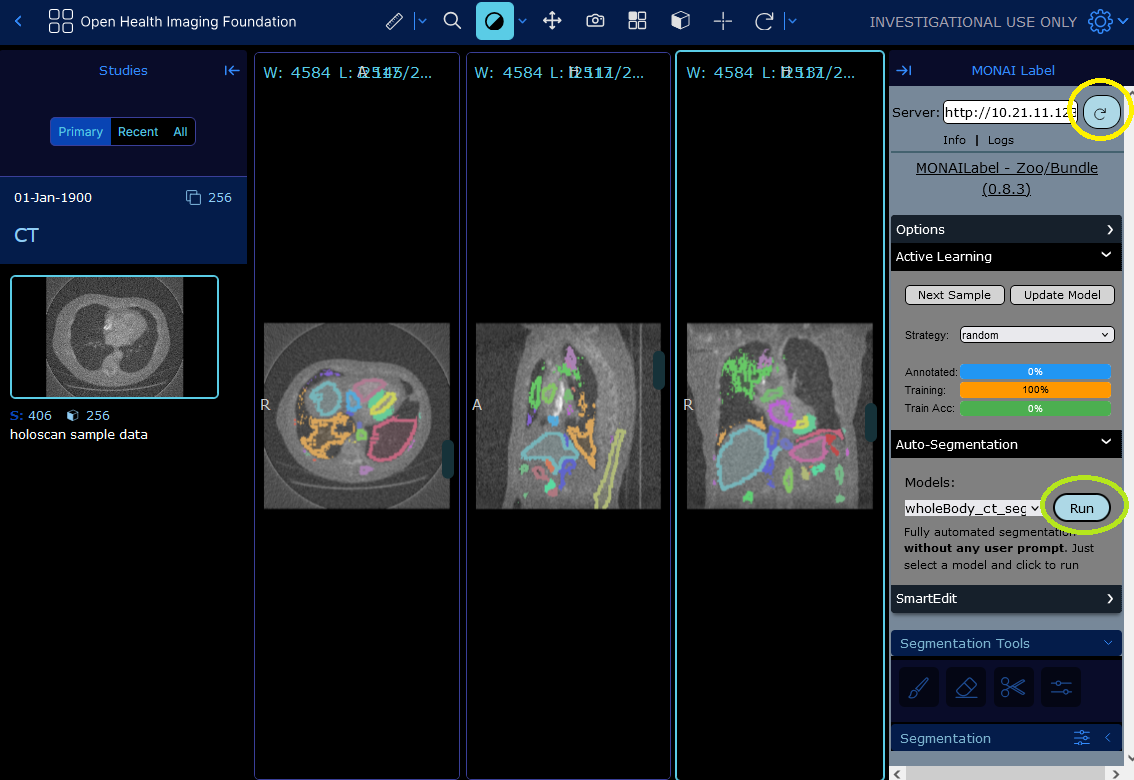
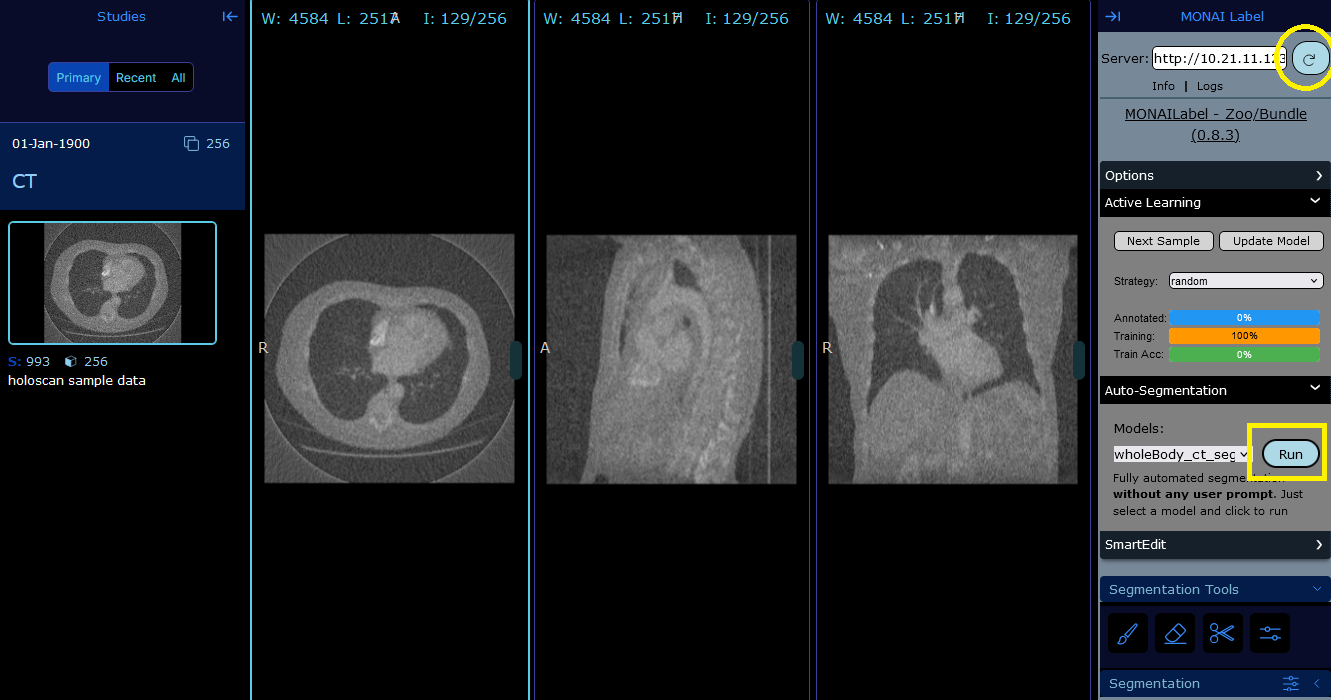
Add segmentation results figures for original and denoised volumes.

diff --git a/applications/cbct_recon/vis/README.md b/applications/cbct_recon/vis/README.md
@@ -46,7 +46,9 @@ for authentication are both `orthanc`, and can be changed through
 modifying the `RegisteredUsers` field in the [Orthanc config
 file](orthanc/orthanc_config.json).
 
-<img align="center" src="./figs/orthanc-landing.png" width="800" alt="Orthanc landing"/>
+<p align="center">
+<img src="./figs/orthanc-landing.png" width="800" alt="Orthanc landing"/>
+</p>
 
 #### Access the OHIF viewer
 
@@ -56,15 +58,19 @@ worklist (see the first figure below). If the recon app has
 previously sent volumes to Orthanc, you will see these volumes appear
 here automatically.
 
-<img align="center" src="./figs/ohif-landing.png" width="800" alt="OHIF landing"/>
+<p align="center">
+<img src="./figs/ohif-landing.png" width="800" alt="OHIF landing"/>
+</p>
 
 You can open a patient data and visualize the reconstructed volumes
 for further analysis. The two figures below show the viewer panel. The
 left figure displays the original reconstructed volume and the right
 figure displays the denoised volume.
 
-<img align="center" src="./figs/ohif-viewer-recon-original.png"
+<p align="center">
+<img src="./figs/ohif-viewer-recon-original.png"
 width="450" alt="OHIF viewer recon"/><img align="center" src="./figs/ohif-viewer-recon-denoised.png" width="450" alt="OHIF viewer denoised"/>
+</p>
 
 #### Run Automatic Segmentation
 
@@ -74,10 +80,20 @@ will open that allows you to perform automatic segmentation of the
 CBCT volumes using using the [whole-body CT Segmentation
 model](https://github.com/Project-MONAI/model-zoo/tree/dev/models/wholeBody_ct_segmentation)
 from MONAI Model Zoo. To do that, you might first need to click on the
-refresh button in the "MONAI Label" tab (see yellow circle in the
+refresh button in the "MONAI Label" tab (see the circle mark in the
 figure below) for the model to appear. And then click on the "Run"
-button in the "Auto-Segmentation" tab (see green circle in the figure
-below). After waiting a couple of seconds, you should see the
+button in the "Auto-Segmentation" tab (see the rectangle mark in the
+figure below). After waiting a couple of seconds, you should see the
 segmentation masks pop-up in the same viewer window.
 
-<img align="center" src="./figs/monai-label.png" width="800" alt="MONAI Label"/>
+<p align="center">
+<img src="./figs/monai-label.png" width="800" alt="MONAI Label"/>
+</p>
+
+The figures below show automatic segmentation results for the original
+reconstructed volume (upper) and for the denoised volume (lower).
+
+<p align="center">
+<img src="./figs/monai-label-segmentation-original.png" width="800" alt="MONAI Label recon"/>
+<img src="./figs/monai-label-segmentation-denoised.png" width="800" alt="MONAI Label denoised"/>
+</p>
